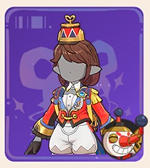
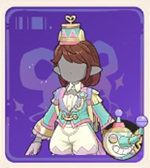
新增异色切换功能 + 更新巨鼓象印象图片

diff --git a/index.html b/index.html
@@ -666,10 +666,19 @@
 
     /* ── Alt-color badge ── */
     .alt-badge {
-      display: inline-block; padding: 1px 6px; border-radius: 4px;
-      font-size: 9px; font-weight: 700;
-      background: rgba(154,115,249,0.12); color: #9A73F9; border: 1px solid rgba(154,115,249,0.35);
+      display: inline-flex; align-items: center; gap: 3px;
+      padding: 2px 7px; border-radius: 4px;
+      font-size: 10px; font-weight: 700;
+      background: rgba(151,147,140,0.13); color: #6b6660; border: 1px solid rgba(151,147,140,0.45);
       margin-left: 4px; vertical-align: middle;
+      cursor: pointer; user-select: none;
+      transition: background 0.15s, border-color 0.15s, color 0.15s;
+    }
+    .alt-badge img { width: 11px; height: 11px; object-fit: contain; }
+    .alt-badge:hover { background: rgba(151,147,140,0.22); }
+    .alt-badge.alt-on {
+      background: rgba(151,147,140,0.32); border-color: rgba(151,147,140,0.7);
+      color: #3d3a37;
     }
 
     /* ── Theme all-full button ── */
@@ -1627,11 +1636,10 @@ for (const th of THEMES_RAW) {
   }
 }
 
-// Suits with alternate-color variants (异色)
+// Suits with alternate-color variants (异色) — must have matching file in suitcard-alt/
 const ALTS = new Set([
   '白金独角兽印象', '红绒十字印象',
   '雪影娃娃印象',  '嘟嘟锅印象',  '獠牙猪印象',
-  '奇丽花印象',
   '烟花伯爵印象', '巨鼓象印象', '咕德帽帽印象', '小丑公爵印象',
 ]);
 
@@ -2508,10 +2516,10 @@ function renderOwnedList() {
       if (!inPool) row.style.opacity = '0.7';
       const rarityLabel = s.rarity==='gold'?'金色·195':'紫色·98';
       const pendingSuitTag = inPool ? '' : `<span style="font-size:10px;color:var(--amber);margin-left:4px">待入池</span>`;
-      const altBadge = ALTS.has(s.sub) ? '<span class="alt-badge">有异色</span>' : '';
+      const altBadge = ALTS.has(s.sub) ? `<span class="alt-badge" id="alt-btn-${s.id}" onclick="toggleAltColor('${s.id}','${s.sub}')"><img src="assets/icon/variant.png" alt="">异色</span>` : '';
       row.innerHTML = `
         <div class="suit-hdr">
-          <div class="suit-img"><img src="assets/images/suitcard/${s.sub}.png" alt="${s.sub}" onerror="this.parentElement.style.background='#E3DAC8'"></div>
+          <div class="suit-img"><img id="sc-img-${s.id}" src="assets/images/suitcard/${s.sub}.png" alt="${s.sub}" onerror="this.parentElement.style.background='#E3DAC8'"></div>
           <div class="suit-name-wrap">
             <div class="suit-name">${s.sub}${pendingSuitTag}</div>
             <span class="rarity-tag ${s.rarity}">${rarityLabel}</span>${altBadge}
@@ -2534,6 +2542,17 @@ function renderOwnedList() {
     }
     el.appendChild(wrap);
   }
+}
+
+function toggleAltColor(sid, sub) {
+  const img = document.getElementById('sc-img-' + sid);
+  const btn = document.getElementById('alt-btn-' + sid);
+  if (!img || !btn) return;
+  const isAlt = btn.classList.contains('alt-on');
+  img.src = isAlt
+    ? `assets/images/suitcard/${sub}.png`
+    : `assets/images/suitcard-alt/${sub}.png`;
+  btn.classList.toggle('alt-on', !isAlt);
 }
 
 function setThemeAllFull(themeName) {
